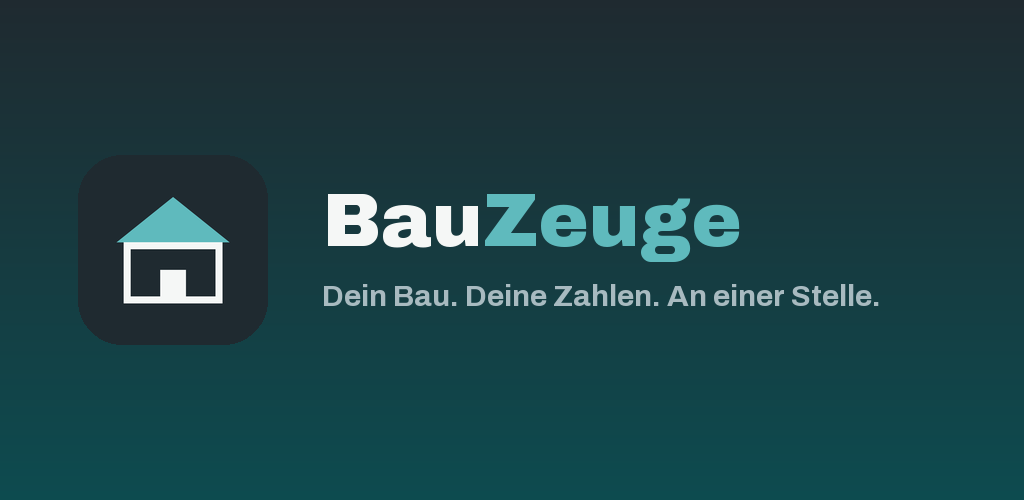
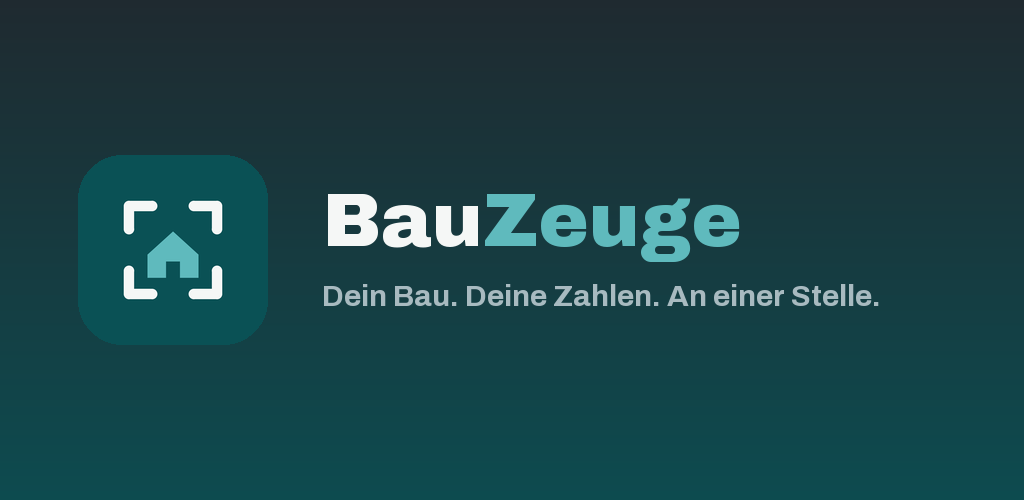
Neues Zeichen: Haus im Sucher statt Giebel ueber Fassade
Kopf der App, Web-Symbole, Android-Symbol, Startbild und Store-Grafiken.
store.py findet das Schwesterprojekt wieder (website statt hausbauatlas),
website-bilder.mjs nimmt fest hell auf.

Changed region(s): [[0.0625, 0.3, 0.2812, 0.69]]

diff --git a/www/index.html b/www/index.html
@@ -148,7 +148,7 @@
     <span></span><span></span><span></span>
   </button>
   <button class="zurueck" id="zurueck" aria-label="Zurück" hidden>&#8249;</button>
-  <a class="titel" id="kopftitel" href="#/" aria-label="Zur Projektübersicht"><span class="wortmarke"><svg viewBox="0 0 64 64" aria-hidden="true"><rect width="64" height="64" rx="12" fill="#1f2a30"></rect><path d="M11 31 32 13 53 31Z" fill="#5fbabd"></path><rect x="16" y="31" width="32" height="20" fill="none" stroke="#f5f7f6" stroke-width="4"></rect><rect x="28" y="40" width="8" height="11" fill="#f5f7f6"></rect></svg><span class="wm-text">Bau<span class="wm-akzent">Zeuge</span><span class="wm-de">.de</span></span></span></a>
+  <a class="titel" id="kopftitel" href="#/" aria-label="Zur Projektübersicht"><span class="wortmarke"><svg viewBox="0 0 64 64" aria-hidden="true"><rect width="64" height="64" rx="12" fill="#0a5155"></rect><path d="M13 23V13H23M41 13H51V23M51 41V51H41M23 51H13V41" fill="none" stroke="#f5f7f6" stroke-width="4.5" stroke-linecap="round" stroke-linejoin="round"></path><path d="M21 34 32 24 43 34V44H21Z" fill="#5fbabd"></path><rect x="29" y="37" width="6" height="7" fill="#0a5155"></rect></svg><span class="wm-text">Bau<span class="wm-akzent">Zeuge</span><span class="wm-de">.de</span></span></span></a>
   <button class="kopf-aktion" id="kopfaktion" hidden></button>
   <div class="thema-schalter" id="themaschalter" role="group" aria-label="Design"></div>
 </header>

diff --git a/www/app.js b/www/app.js
@@ -36,10 +36,12 @@ function wortmarke() {
   zeichen.setAttribute('viewBox', '0 0 64 64');
   zeichen.setAttribute('aria-hidden', 'true');
   zeichen.innerHTML =
-    '<rect width="64" height="64" rx="12" fill="#1f2a30"></rect>' +
-    '<path d="M11 31 32 13 53 31Z" fill="#5fbabd"></path>' +
-    '<rect x="16" y="31" width="32" height="20" fill="none" stroke="#f5f7f6" stroke-width="4"></rect>' +
-    '<rect x="28" y="40" width="8" height="11" fill="#f5f7f6"></rect>';
+    // Haus im Sucher, dieselbe Zeichnung wie in index.html und auf der Website.
+    '<rect width="64" height="64" rx="12" fill="#0a5155"></rect>' +
+    '<path d="M13 23V13H23M41 13H51V23M51 41V51H41M23 51H13V41" fill="none" stroke="#f5f7f6" ' +
+    'stroke-width="4.5" stroke-linecap="round" stroke-linejoin="round"></path>' +
+    '<path d="M21 34 32 24 43 34V44H21Z" fill="#5fbabd"></path>' +
+    '<rect x="29" y="37" width="6" height="7" fill="#0a5155"></rect>';
 
 /* Die Wortmarke heisst ueberall BauZeuge.de, auch in der App.
  *

diff --git a/ressourcen/symbol.py b/ressourcen/symbol.py
@@ -4,9 +4,9 @@
 
 Schreibt ressourcen/icon.png und ressourcen/splash.png. Daraus macht
 @capacitor/assets im CI die Android-Groessen. Ausserdem entstehen die
-Symbole fuer das Web-App-Manifest direkt in www/. Das Motiv ist ein Haus mit
-Giebel in Kranbau-Gelb auf dem Papierton der Website - dieselbe Marke wie
-hausbauatlas.de, damit man die App im Startmenue wiedererkennt.
+Symbole fuer das Web-App-Manifest direkt in www/. Das Motiv ist das Zeichen
+von BauZeuge.de: ein Haus im Sucher auf dunklem Petrol (seit dem 13.11.2026),
+damit man die App im Startmenue wiedererkennt.
 """
 import pathlib
 from PIL import Image, ImageDraw
@@ -16,78 +16,85 @@ HIER = pathlib.Path(__file__).parent
 PAPIER = (245, 247, 246)
 TINTE = (31, 42, 48)
 AKZENT = (14, 110, 114)
-# Der Giebel sitzt auf der dunklen Kachel; dort traegt der helle Akzent.
+# Das Haus sitzt auf der dunklen Kachel; dort traegt der helle Akzent.
 AKZENT_HELL = (95, 186, 189)
 
 
-def haus(bild: Image.Image, mitte: tuple[int, int], groesse: int) -> None:
-    """Zeichnet das Hauszeichen mittig, groesse ist die Breite der Fassade."""
-    stift = ImageDraw.Draw(bild)
+# Das Zeichen "Haus im Sucher" auf einem Raster von 64 Einheiten, wie im SVG:
+# vier Winkel eines Suchers, darin das Haus. Der Zeuge schaut hin.
+#
+# Zwei Fassungen. "voll" mit Tuer fuer alles ab etwa 28 Bildpunkten; "klein"
+# mit kraeftigeren Winkeln und ohne Tuer fuer Favicon und Knoepfe -- bei
+# sechzehn Bildpunkten waere die Tuer ein einzelner dunkler Punkt.
+WINKEL_VOLL = ([(13, 23), (13, 13), (23, 13)], [(41, 13), (51, 13), (51, 23)],
+               [(51, 41), (51, 51), (41, 51)], [(23, 51), (13, 51), (13, 41)])
+WINKEL_KLEIN = ([(12, 23), (12, 12), (23, 12)], [(41, 12), (52, 12), (52, 23)],
+                [(52, 41), (52, 52), (41, 52)], [(23, 52), (12, 52), (12, 41)])
+HAUS_VOLL = [(21, 34), (32, 24), (43, 34), (43, 44), (21, 44)]
+HAUS_KLEIN = [(20, 35), (32, 24), (44, 35), (44, 46), (20, 46)]
+TUER = (29, 37, 35, 44)
+
+
+def zeichen(stift, mitte, raster, grund, klein=False, hell=PAPIER, haus=AKZENT_HELL):
+    """Zeichnet das Zeichen. raster ist die Kante, auf die die 64 Einheiten
+    gelegt werden; grund ist die Farbe dahinter (fuer die Tuer)."""
     mx, my = mitte
-    b = groesse
-    h = int(b * 0.62)          # Hoehe der Fassade
-    dach = int(b * 0.46)       # Hoehe des Giebels
-    strich = max(6, b // 14)
+    s = raster / 64.0
 
-    oben = my - (h + dach) // 2
-    links = mx - b // 2
-    rechts = mx + b // 2
-    unten = oben + dach + h
+    def p(x, y):
+        return (mx + (x - 32) * s, my + (y - 32) * s)
 
-    # Giebel als gefuellte Flaeche, Fassade als Umriss: so bleibt das Zeichen
-    # auch klein noch lesbar.
-    stift.polygon(
-        [(links - strich, oben + dach), (mx, oben), (rechts + strich, oben + dach)],
-        fill=AKZENT_HELL,
-    )
-    stift.rectangle(
-        [links, oben + dach, rechts, unten],
-        outline=PAPIER, width=strich,
-    )
+    breite = (6.0 if klein else 4.5) * s
+    r = breite / 2
+    for zug in (WINKEL_KLEIN if klein else WINKEL_VOLL):
+        punkte = [p(x, y) for x, y in zug]
+        stift.line(punkte, fill=hell, width=max(1, round(breite)), joint='curve')
+        # Runde Enden und eine runde Ecke: Pillow zeichnet Linien stumpf.
+        for x, y in punkte:
+            stift.ellipse([x - r, y - r, x + r, y + r], fill=hell)
 
-    # Tuer
-    tb = int(b * 0.26)
-    th = int(h * 0.55)
-    stift.rectangle(
-        [mx - tb // 2, unten - th, mx + tb // 2, unten],
-        fill=PAPIER,
-    )
+    stift.polygon([p(x, y) for x, y in (HAUS_KLEIN if klein else HAUS_VOLL)], fill=haus)
+    if not klein:
+        (x0, y0), (x1, y1) = p(TUER[0], TUER[1]), p(TUER[2], TUER[3])
+        stift.rectangle([x0, y0, x1, y1], fill=grund)
 
 
-def symbol(kante: int, ziel: str, rand_faktor: float, hintergrund) -> None:
-    bild = Image.new("RGB", (kante, kante), hintergrund)
-    haus(bild, (kante // 2, kante // 2), int(kante * rand_faktor))
-    bild.save(HIER / ziel)
-    print(f"  {ziel}  {kante}x{kante}")
+# Die Kachel traegt das dunkle Petrol der Marke.
+KACHEL = (10, 81, 85)
+
+
+def flaeche(kante: int, raster_anteil: float, klein: bool = False) -> Image.Image:
+    """Volle Flaeche in der Kachelfarbe mit dem Zeichen in der Mitte.
+
+    raster_anteil: Anteil der Kante, auf den die 64 Einheiten gelegt werden.
+    1.0 fuellt die Flaeche wie im SVG. Zweifach gezeichnet und
+    heruntergerechnet, das glaettet die Schraegen.
+    """
+    gross = kante * 2
+    bild = Image.new("RGB", (gross, gross), KACHEL)
+    zeichen(ImageDraw.Draw(bild), (gross / 2, gross / 2), gross * raster_anteil, KACHEL, klein=klein)
+    return bild.resize((kante, kante), Image.LANCZOS)
 
 
 WWW = HIER.parent / "www"
 
 
-def websymbol(kante: int, ziel: str, rand_faktor: float) -> None:
-    """Symbol fuer das Web-App-Manifest, direkt nach www/."""
-    bild = Image.new("RGB", (kante, kante), TINTE)
-    haus(bild, (kante // 2, kante // 2), int(kante * rand_faktor))
-    bild.save(WWW / ziel)
-    print(f"  www/{ziel}  {kante}x{kante}")
-
-
 if __name__ == "__main__":
-    # Android beschneidet adaptive Symbole kreisfoermig; deshalb nur 52 Prozent
-    # der Kante belegen, sonst wird der Giebel abgeschnitten.
-    symbol(1024, "icon.png", 0.52, TINTE)
+    # Android beschneidet adaptive Symbole kreisfoermig; sicher ist nur der
+    # innere Kreis mit rund zwei Dritteln der Kante. Bei 0,78 liegen die
+    # aeusseren Winkel des Suchers gerade noch darin.
+    flaeche(1024, 0.78).save(HIER / "icon.png")
+    print("  icon.png  1024x1024")
     # Startbild: dasselbe Zeichen klein auf grosser Flaeche.
-    splash = Image.new("RGB", (2732, 2732), TINTE)
-    haus(splash, (1366, 1366), 620)
-    splash.save(HIER / "splash.png")
+    flaeche(2732, 0.36).save(HIER / "splash.png")
     print("  splash.png  2732x2732")
 
     # Symbole fuer die Webfassung.
     #
     # "any" wird gezeigt, wie es ist, deshalb darf das Zeichen die Flaeche
-    # gut ausfuellen. "maskable" schneidet das Betriebssystem selbst zu,
-    # meist kreisfoermig; sicher ist dort nur der innere Kreis mit achtzig
-    # Prozent der Kante. Deshalb dasselbe schmale Mass wie beim Android-Symbol.
-    websymbol(192, "symbol-192.png", 0.70)
-    websymbol(512, "symbol-512.png", 0.70)
-    websymbol(512, "symbol-maskable-512.png", 0.52)
+    # ausfuellen. "maskable" schneidet das Betriebssystem selbst zu, meist
+    # kreisfoermig; deshalb dasselbe schmale Mass wie beim Android-Symbol.
+    for kante, ziel, anteil in ((192, "symbol-192.png", 1.0), (512, "symbol-512.png", 1.0),
+                                (512, "symbol-maskable-512.png", 0.78)):
+        flaeche(kante, anteil).save(WWW / ziel)
+        print(f"  www/{ziel}  {kante}x{kante}")

diff --git a/ressourcen/store.py b/ressourcen/store.py
@@ -23,7 +23,10 @@ from PIL import Image, ImageDraw, ImageFont
 HIER = pathlib.Path(__file__).parent
 WURZEL = HIER.parent
 ZIEL = HIER / 'play'
-NACHBAR = WURZEL.parent / 'hausbauatlas'
+# Das Schwesterprojekt heisst seit dem PC-Umzug (10.11.2026) "website";
+# davor lag es als "hausbauatlas" daneben.
+NACHBAR = next((p for p in (WURZEL.parent / 'website', WURZEL.parent / 'hausbauatlas') if p.is_dir()),
+               WURZEL.parent / 'website')
 
 # Dieselbe Palette wie in www/stil.css und in der Website. Wer hier etwas
 # aendert, aendert es dort mit -- test.mjs prueft die Werte der App.
